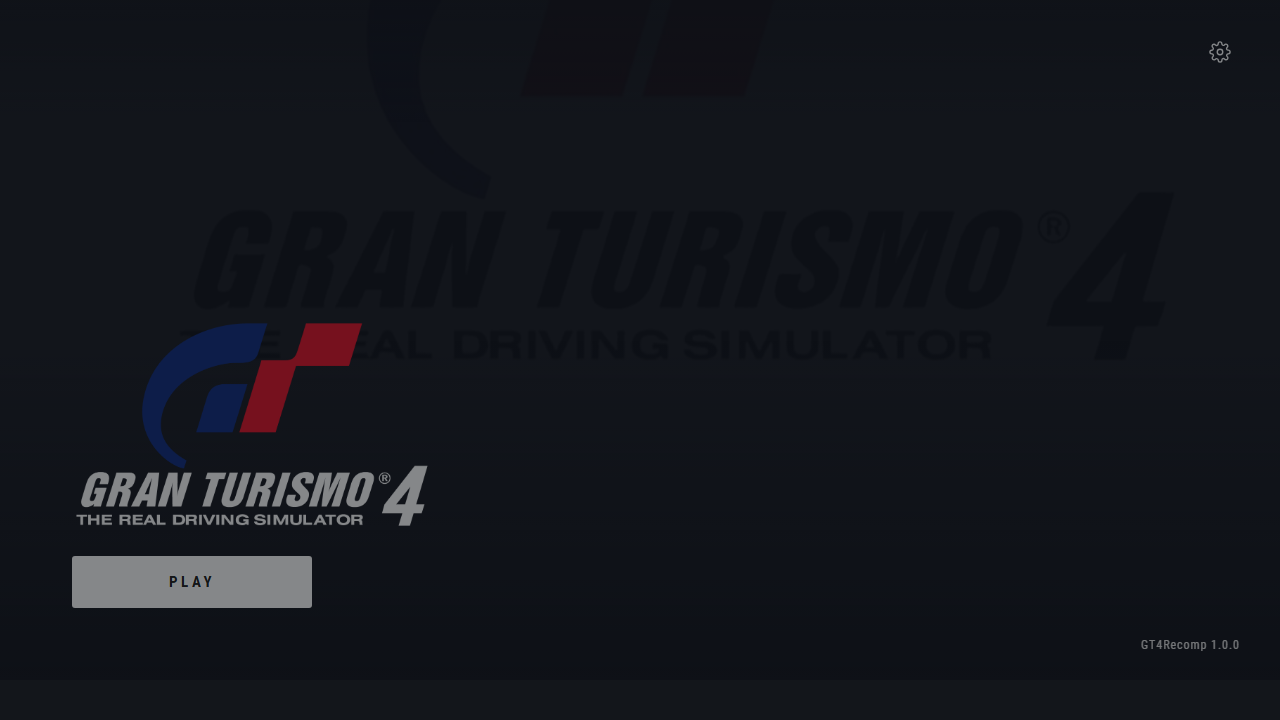
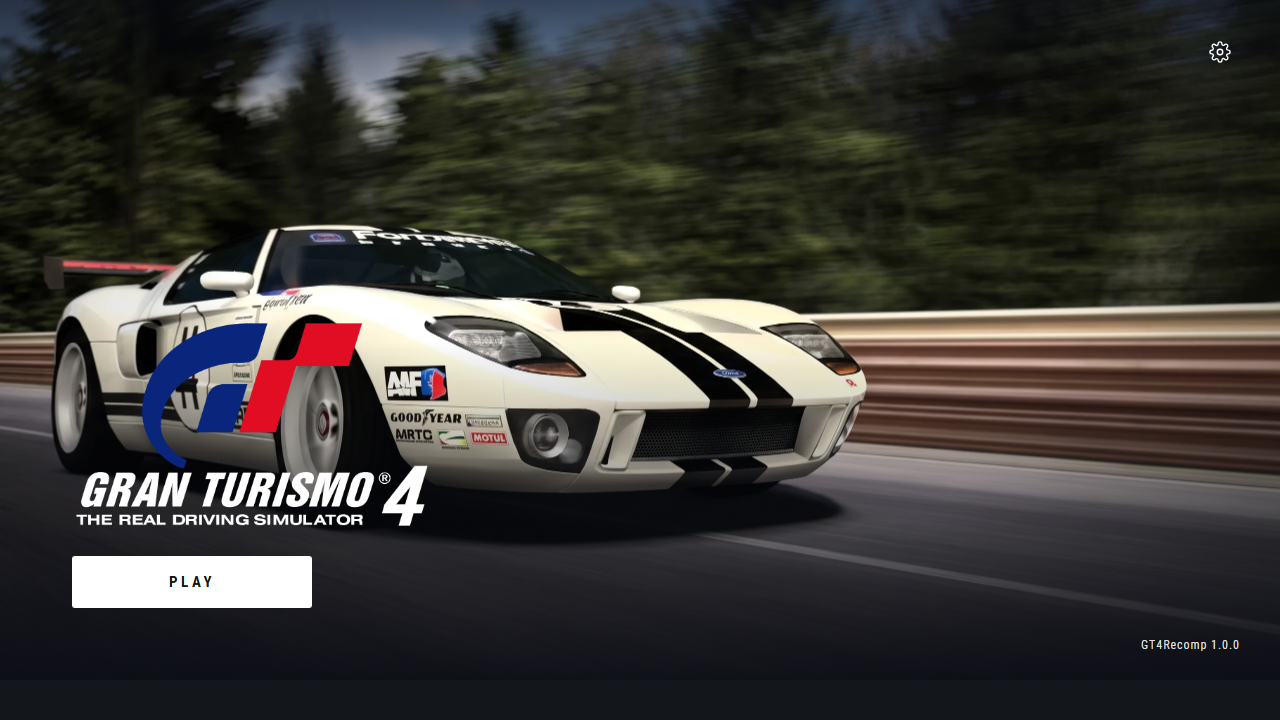
TASK-019: home slideshow with the owner's six GT4 backgrounds (WebP, 72 s cycle)
The owner's six AI-upscaled GT4 scenes replace the three cover placeholders: WebP at 2560 px wide, quality 82,
140-300 KB each. Six CSS slots (bg-slide-1..6), 12 s per image, about 1.4 s crossfade, slow right-to-left pan;
reduced motion shows the first image. Backgrounds README and the v2 home screenshot updated.

diff --git a/launcher/crates/gt4l-tauri/ui/css/app.css b/launcher/crates/gt4l-tauri/ui/css/app.css
@@ -135,23 +135,26 @@ body.is-home.input-keys #hints { display: none; }
 .home { position: absolute; inset: 0; background: var(--ink); overflow: hidden; }
 .home .art { position: absolute; inset: 0; }
 .home .art img { position: absolute; inset: 0; width: 100%; height: 100%; object-fit: cover; object-position: 60% 30%; }
-/* Home background slideshow: three slots, each visible for 12 s of a 36 s cycle, 1.5 s crossfade, slow pan
+/* Home background slideshow: six slots, each visible for 12 s of a 72 s cycle, about 1.4 s crossfade, slow pan
    right to left (3% translate, 6% scale). Pure CSS; the slot stagger is a class (no inline styles under the CSP).
-   The positive delays start slot 2 at 12 s and slot 3 at 24 s. Reduced motion: first image only, no pan. */
-.bg-slide { opacity: 0; animation: bg-show 36s linear infinite, bg-pan 36s linear infinite; }
+   Slot n starts at (n - 1) * 12 s. Reduced motion: first image only, no pan. */
+.bg-slide { opacity: 0; animation: bg-show 72s linear infinite, bg-pan 72s linear infinite; }
 .bg-slide-1 { animation-delay: 0s, 0s; }
 .bg-slide-2 { animation-delay: 12s, 12s; }
 .bg-slide-3 { animation-delay: 24s, 24s; }
+.bg-slide-4 { animation-delay: 36s, 36s; }
+.bg-slide-5 { animation-delay: 48s, 48s; }
+.bg-slide-6 { animation-delay: 60s, 60s; }
 @keyframes bg-show {
   0% { opacity: 0; }
-  4% { opacity: 1; }
-  30% { opacity: 1; }
-  34% { opacity: 0; }
+  2% { opacity: 1; }
+  15% { opacity: 1; }
+  17% { opacity: 0; }
   100% { opacity: 0; }
 }
 @keyframes bg-pan {
   0% { transform: translateX(3%) scale(1.06); }
-  34% { transform: translateX(-3%) scale(1.06); }
+  17% { transform: translateX(-3%) scale(1.06); }
   100% { transform: translateX(-3%) scale(1.06); }
 }
 @media (prefers-reduced-motion: reduce) {

diff --git a/launcher/crates/gt4l-tauri/ui/js/config.js b/launcher/crates/gt4l-tauri/ui/js/config.js
@@ -9,13 +9,16 @@
   GT4.features = {
     mods: false
   };
-  // Home background slideshow (three slots, in order). Placeholders until the final 16:9 images arrive;
-  // see ui/assets/backgrounds/README.md. Each slot has a CSS class bg-slide-1..3 in css/app.css.
+  // Home background slideshow (six slots, in order); see ui/assets/backgrounds/README.md. Each slot has a CSS
+  // class bg-slide-1..6 in css/app.css, so the list length must match the CSS slots.
   GT4.config = {
     backgrounds: [
-      "assets/backgrounds/bg-01.png",
-      "assets/backgrounds/bg-02.png",
-      "assets/backgrounds/bg-03.png"
+      "assets/backgrounds/bg-01.webp",
+      "assets/backgrounds/bg-02.webp",
+      "assets/backgrounds/bg-03.webp",
+      "assets/backgrounds/bg-04.webp",
+      "assets/backgrounds/bg-05.webp",
+      "assets/backgrounds/bg-06.webp"
     ]
   };
 })(window);

diff --git a/launcher/crates/gt4l-tauri/ui/js/pages/home.js b/launcher/crates/gt4l-tauri/ui/js/pages/home.js
@@ -84,7 +84,7 @@
         on: { click: function () { GT4.go("#/settings/graphics"); } }
       }, [gearIcon()]);
 
-      // Slideshow: one img per slot (bg-slide-1..3 crossfade in CSS). The slots come from GT4.config.
+      // Slideshow: one img per slot (bg-slide-1..6 crossfade in CSS). The slots come from GT4.config.
       var backgrounds = ((GT4.config && GT4.config.backgrounds) || []).slice(0, 3);
       var slides = backgrounds.map(function (src, index) {
         return h("img", { class: "bg-slide bg-slide-" + (index + 1), src: src, alt: "" });

diff --git a/launcher/crates/gt4l-tauri/ui/assets/backgrounds/README.md b/launcher/crates/gt4l-tauri/ui/assets/backgrounds/README.md
@@ -1,23 +1,19 @@
 # Home background slideshow
 
-The home page shows three full-screen images that crossfade and pan slowly (see `css/app.css`, `bg-show` and
-`bg-pan`). The slots are listed in `ui/js/config.js` (`GT4.config.backgrounds`), in order:
+The home page shows six full-screen images that crossfade and pan slowly from right to left (see `css/app.css`,
+`bg-show` and `bg-pan`). The slots are listed in `ui/js/config.js` (`GT4.config.backgrounds`), in order:
+`bg-01.webp` to `bg-06.webp`, CSS classes `bg-slide-1` to `bg-slide-6`.
 
-| Slot | Current file | CSS class |
-|---|---|---|
-| 1 | `assets/backgrounds/bg-01.png` | `bg-slide-1` |
-| 2 | `assets/backgrounds/bg-02.png` | `bg-slide-2` |
-| 3 | `assets/backgrounds/bg-03.png` | `bg-slide-3` |
+The images are GT4 scenes the owner prepared (AI-upscaled, 2026-10-20). They were converted to WebP at 2560 px
+wide, quality 82, 140-300 KB each.
 
-The current three files are placeholders: copies of the project cover art (`assets/cover-front.png`).
+## Replacing or adding images
 
-## Dropping in the final images
-
-1. Use 16:9 images, at least 1920x1080, as `.webp` or `.jpg` (`.png` also works).
-2. Put them in this folder, for example `bg-01.webp`, `bg-02.webp`, `bg-03.webp`.
-3. Edit the three paths in `ui/js/config.js` to the new file names (the order is the slideshow order).
+1. Use 16:9 images, at least 1920x1080. Convert them to WebP at about 2560 px wide, quality around 82.
+2. Put them in this folder and list them in `ui/js/config.js`; the order is the slideshow order.
+3. If the count changes, update the slot classes and the cycle in `css/app.css`: 12 s per slot, cycle = 12 s x
+   slots, and the `bg-show`/`bg-pan` keyframe percentages.
 4. Check the home page at 1280x720 and 1920x1080 in the dev mock (`ui/dev/index.html#/home`). The dark gradient
-   over the image keeps the logo and Play readable; keep the important parts of each image away from the bottom left.
+   keeps the logo and Play readable; keep important parts of each image away from the bottom left.
 
-No code change is needed beyond the file names. The timing (12 s per image, 1.5 s crossfade, 36 s cycle) is in
-`css/app.css`. Under `prefers-reduced-motion: reduce` only the first image is shown, without the pan.
+Under `prefers-reduced-motion: reduce` only the first image is shown, without the pan.
